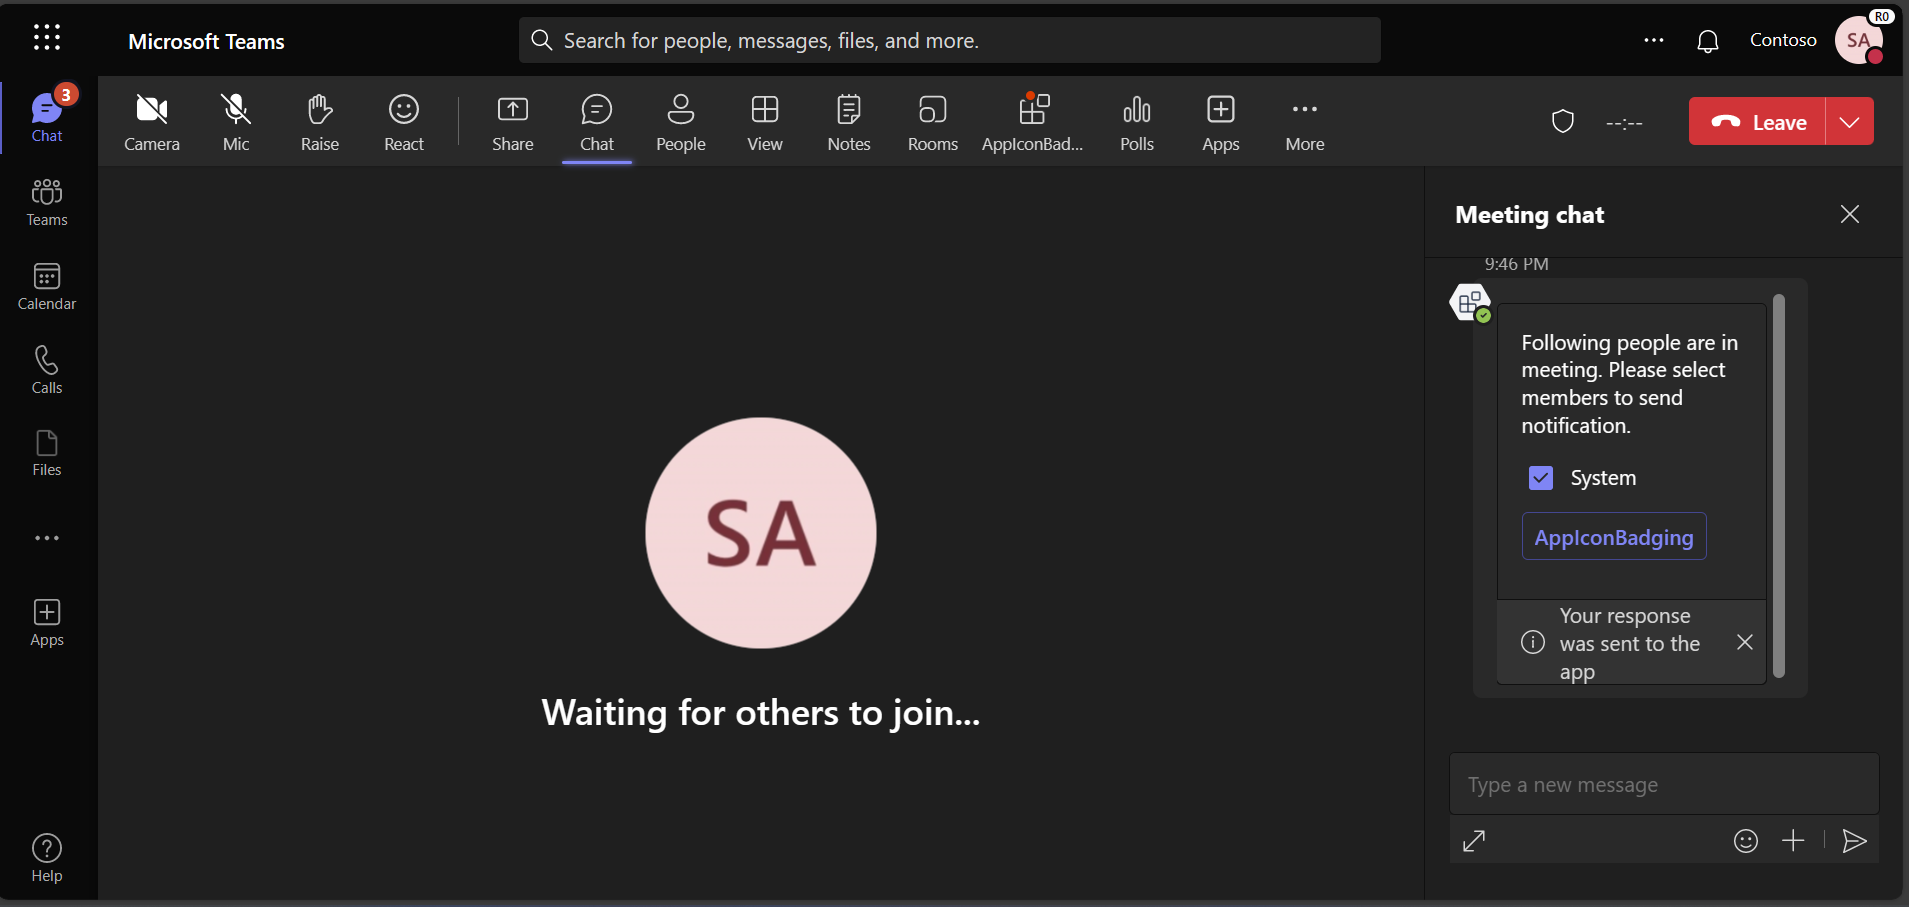
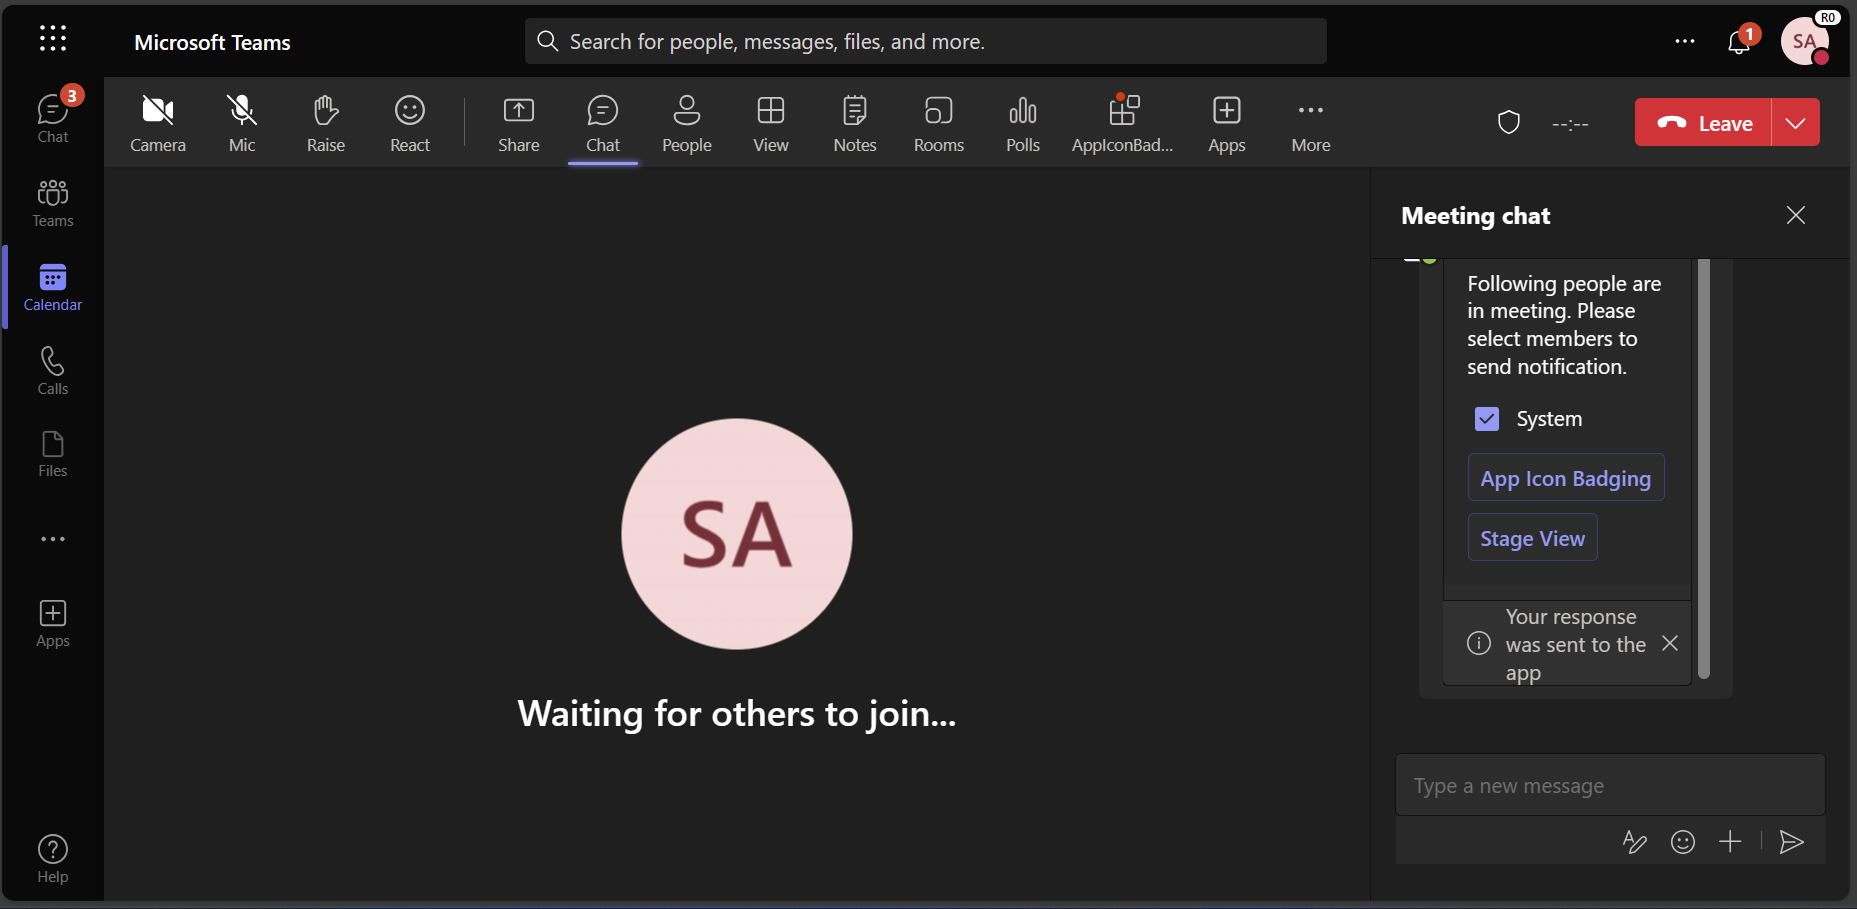
Added stage view (like nodejs sample)

diff --git a/samples/meetings-app-icon-badging/csharp/AppIconBadgingInMeetings/Bots/AppIconBadgingInMeeting.cs b/samples/meetings-app-icon-badging/csharp/AppIconBadgingInMeetings/Bots/AppIconBadgingInMeeting.cs
@@ -113,6 +113,23 @@ namespace AppIconBadgingInMeetings
                     }
                     break;
 
+                case "SatgeViewNotification":
+                    try
+                    {
+                        var actionSet = JsonConvert.DeserializeObject<ActionBase>(turnContext.Activity.Value.ToString());
+                        var selectedMembers = actionSet.Choice;
+                        var pageUrl = _config["BaseUrl"] + "/hello";
+                        var meetingId = turnContext.Activity.TeamsGetMeetingInfo()?.Id ?? throw new InvalidOperationException("This method is only valid within the scope of a MS Teams Meeting.");
+                        TargetedMeetingNotification notification = GetStageViewNotification(selectedMembers.Split(',').ToList(), pageUrl);
+
+                        await TeamsInfo.SendMeetingNotificationAsync(turnContext, notification, meetingId);
+                    }
+                    catch (Exception ex)
+                    {
+                        Console.WriteLine(ex.ToString());
+                    }
+                    break;
+
                 default:
                     break;
             }
@@ -181,6 +198,43 @@ namespace AppIconBadgingInMeetings
                     Surfaces = new List<Surface>()
                     {
                         new MeetingTabIconSurface()
+                    },
+                }
+            };
+
+            return notification;
+        },
+
+        /// <summary>
+        /// Send Stage View Notification to recipients
+        /// </summary>
+        /// <param name="recipients">List of members added to the conversation.</param>
+        /// <param name="pageUrl">page url that will be load in the notification.</param>
+        /// <returns>Target meeting notification object.</returns>
+        private TargetedMeetingNotification GetStageViewNotification(List<string> recipients, string pageUrl)
+        {
+            TargetedMeetingNotification notification = new TargetedMeetingNotification()
+            {
+                Type = "TargetedMeetingNotification",
+                Value = new TargetedMeetingNotificationValue()
+                {
+                    Recipients = recipients,
+                    Surfaces = new List<Surface>()
+                    {
+                        new MeetingStageSurface<TaskModuleContinueResponse>()
+                        {
+                            ContentType = ContentType.Task,
+                            Content = new TaskModuleContinueResponse
+                            {
+                                Value = new TaskModuleTaskInfo()
+                                {
+                                    Title = "Stage View Notification",
+                                    Height =300,
+                                    Width = 400,
+                                    Url = pageUrl
+                                }
+                            }
+                        }
                     },
                 }
             };
